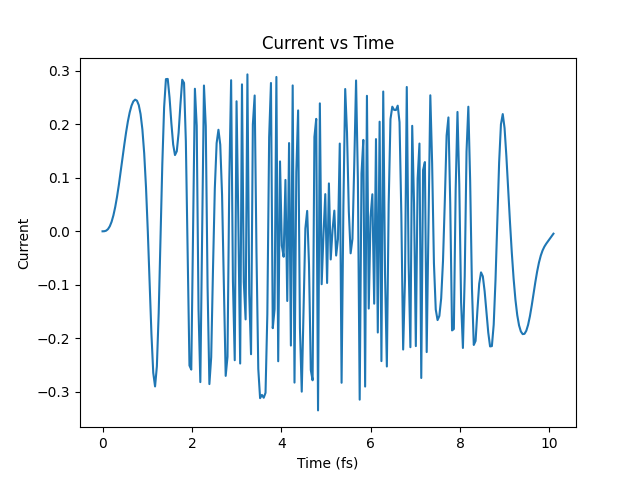
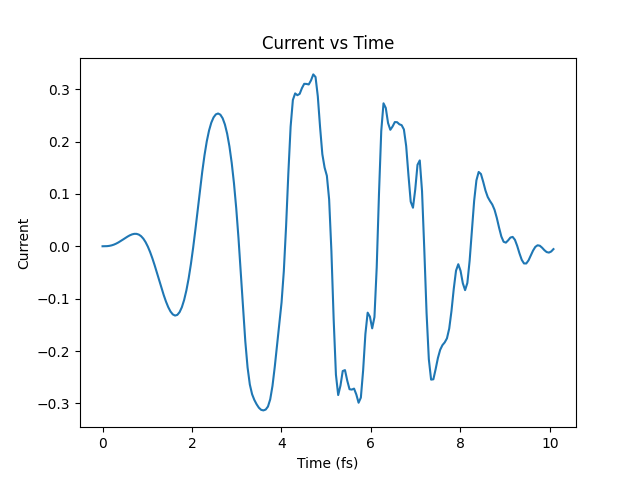
Updated

diff --git a/SSH_new.py b/SSH_new.py
@@ -5,13 +5,14 @@ import scipy as sp
 import numpy as np  
 import matplotlib.pyplot as plt
 import matplotlib.cm as cm
-
+from matplotlib.colors import LogNorm
+import numpy as np
 
 # Define model parameters
 L = 100           # system size
 J = 1.0           # uniform hopping contribution
 a = 2.0           # Lattice constant in a.u
-delta = 0.15     # Alternating shift of the atos casuing the dimerization (negative for topological phase)
+delta = -0.15     # Alternating shift of the atos casuing the dimerization (negative for topological phase)
 
 
 # Declare constants for Vector Potential
@@ -55,33 +56,6 @@ t = np.linspace(start, stop, num=num, endpoint=False)         # Time array
 A_t = A_0*((np.sin(omega_0*t/(2*NN)))**2)*np.sin(omega_0*t)   # Vector Potential
 
 
-# Plot Vector potential A(t)
-plt.plot(t*t_conversion,A_t)
-plt.title("Vector Potential vs Time(fs)")
-plt.xlabel("time (fs)")
-plt.ylabel("Vector Potential A(t)")
-#plt.show()
-
-
-# Define time dependent parts in the Hamiltonian
-def ramp_v(t,A_0,omega_0,NN,a, delta):
-    A_t = A_0*((np.sin(omega_0*t/(2*NN)))**2)*np.sin(omega_0*t) 
-    return np.exp((-1j*(a-delta)*A_t))
-
-def ramp_w(t,A_0,omega_0,NN,a, delta):
-    A_t = A_0*((np.sin(omega_0*t/(2*NN)))**2)*np.sin(omega_0*t) 
-    return np.exp((-1j*(a+delta)*A_t))
-
-def ramp_v_conj(t,A_0,omega_0,NN,a, delta):
-    A_t = A_0*((np.sin(omega_0*t/(2*NN)))**2)*np.sin(omega_0*t) 
-    return np.exp(1j*(a-delta)*A_t)
-
-def ramp_w_conj(t,A_0,omega_0,NN,a, delta):
-    A_t = A_0*((np.sin(omega_0*t/(2*NN)))**2)*np.sin(omega_0*t) 
-    return np.exp(1j*(a+delta)*A_t)
-
-ramp_args = [A_0,omega_0,NN,a, delta]
-
 
 ## Construct single -praticle Hamiltonian
 
@@ -97,12 +71,23 @@ dynamic = []
 H = hamiltonian(static, dynamic, basis=basis, dtype=np.float64)
 E,V = H.eigh() # the Smallest Algeberic Eigen value and conresponding eigen state. 
 
+prob_amplitude = np.transpose(V)**2
 
-print(V)
 print("Energy is", E)
 
+dense = np.zeros((L*L,3))
 
-'''
+for i in range(len(E)):
+    for j in range(len(positions)):
+        k = i*len(positions)+j
+        dense[k,0] = positions[j]
+        dense[k,1] = E[i]
+        dense[k,2] = prob_amplitude[i,j]
+print(dense)
+
+x, y, z = dense[:,0],dense[:,1],dense[:,1]
+
+
 # Plot probability amplitudes against positions of lattice
 x_positions = positions
 y_positions = E
@@ -115,127 +100,27 @@ for i in range(len(x_positions)):
     for j in range(len(y_positions)):
         density[i,j]= prob_amplitude[i,j]
 
-plt.figure(2)
+
+plt.figure()
+plt.plot(x_positions, prob_amplitude[48,:])
+plt.ylabel(r'$|\Psi_{48}|^{2}$')
+plt.title(r'$|\Psi_{48}|^{2}$')
+plt.savefig('Plots/Psi48.png')
+
+plt.figure()
+plt.plot(x_positions, prob_amplitude[49,:])
+plt.ylabel(r'$|\Psi_{49}|^{2}$')
+plt.title(r'$|\Psi_{49}|^{2}$')
+plt.savefig('Plots/Psi49.png')
+
+plt.figure()
 plt.plot(x_positions, prob_amplitude[50,:])
-plt.show()
-'''
-
-# define the Hamitonian in the presence of the external field
-stat = []
-dyna = [["+-", hop_pm_v,ramp_v,ramp_args], 
-        ["+-", hop_pm_w,ramp_w,ramp_args],
-        ["-+", hop_mp_v,ramp_v_conj,ramp_args],
-        ["-+", hop_mp_w,ramp_w_conj,ramp_args]]
-H_t = hamiltonian(stat,dyna,basis=basis, dtype=np.float64)
-
-Et, Vt = H_t.eigsh(time=0.0, k=1, which='SA')
-print(Vt)
-print(np.sqrt(0.28363019**2+0.13983531**2))
-
-E_0 , psi_0 = H_t.eigsh(time=0.0, k=1,which="SA")
-E,V =H_t.eigh(time=0)
-psi_0 = psi_0[:,0]
-
-# Evolve state in 
-psi_t = H_t.evolve(psi_0,0,t,eom='SE',iterate=True)
-
-# Define current operator
-def current_ramp(t,A_0,omega_0,NN,a):
-    A_t = (A_0*10/omega_0)*((np.sin(omega_0*t/(2*NN)))**2)*np.sin(omega_0*t)
-    return -1j*a*np.exp(-1j*A_t)
-
-def current_ramp_conj(t,A_0,omega_0,NN,a):
-    A_t = (A_0*10/omega_0)*((np.sin(omega_0*t/(2*NN)))**2)*np.sin(omega_0*t)
-    return 1j*a*np.exp(1j*A_t)
-
-current_ramp_args = [A_0,omega_0,NN,a]
-
-current_static = []
-current_dynamic = [["+-", hop_pm_v,current_ramp,current_ramp_args],
-                   ["+-", hop_pm_w,current_ramp,current_ramp_args], 
-                   ["-+", hop_mp_v,current_ramp_conj,current_ramp_args],
-                   ["-+", hop_mp_w,current_ramp_conj,current_ramp_args]]
-current = hamiltonian(current_static,current_dynamic, basis=basis,dtype=np.float64)
-
-# Define current operator
-X_i = [[positions[i],i] for i in range(L)]
-
-displacement_static=[["n",X_i]]
-displacement_dynamic=[]
-displacement = hamiltonian(displacement_static,displacement_dynamic,basis=basis, dtype=np.float64)
-
-print("displacement list",displacement_static)
-
-# calculate expectation values of current operator
-Obs_time = obs_vs_time(psi_t,t,dict(Energy=H_t, Current=current, Displacement=displacement))
-current_time = Obs_time["Current"]
-displacement_time = Obs_time["Displacement"]
-#print(np.size(current_time))
+plt.ylabel(r'$|\Psi_{50}|^{2}$')
+plt.title(r'$|\Psi_{50}|^{2}$')
+plt.savefig('Plots/Psi50.png')
 
 plt.figure()
-plt.plot(t*t_conversion,current_time)
-plt.xlabel('Time (fs)')
-plt.ylabel('Current')
-plt.title("Current vs Time")
-plt.show()
-
-plt.figure()
-plt.plot(t*t_conversion,displacement_time)
-plt.xlabel('Time (fs)')
-plt.ylabel('Displacement')
-plt.title("Displacement vs Time")
-plt.show()
-
-#velocity_time = np.gradient(displacement_time,t)
-#acceleration_time = np.gradie
-
-# Fourier Transformation to obtain current in frequency domain
-T = t[-1]-t[0]        # total time 
-N = num               # Number of steps
-delta_t = t[1]-t[0]   # Time step
-
-
-omega = np.linspace(-1*np.pi/delta_t, np.pi/delta_t, num, endpoint= False)
-delta_omega=omega[1]-omega[0]
-
-factor = np.zeros(num)
-for k in range(num):
-    factor[k] = np.exp(1j*omega[0]*k*delta_t)
-
-current_time = factor*current_time
-J_omega = (delta_t/(np.sqrt(2*np.pi)))*N*sp.fft.fft(current_time)
-omega_J_omega = omega * J_omega
-S_omega = abs(omega_J_omega)**2
-'''
-'''
-for k in range(num):
-    A_t[k] = np.exp(1j*omega[0]*k*delta_t)*A_t[k]
-'''
-'''
-
-A_t_omega = (delta_t/(np.sqrt(2*np.pi)))*N*sp.fft.fft(factor*A_t)
-plt.plot(omega,np.abs(A_t_omega)**2)
-plt.yscale('log')
-plt.title("FFT of AT")
-plt.xlim(left=0)
-plt.show()
-
-print("length",np.size(A_t))
-X_t_omega = (delta_t/(np.sqrt(2*np.pi)))*N*sp.fft.fft(factor*displacement_time)
-plt.plot(omega,np.abs(X_t_omega)**2)
-plt.yscale('log')
-plt.title("FFT of Xt")
-plt.xlim(left=0)
-plt.show()
-
-print("length of X",np.size(displacement_time))
-# Plot J(t) and omega * J(omega) (magnitude)
-plt.figure()
-plt.plot(omega,S_omega)
-plt.yscale('log')
-plt.ylabel("S(Omega)")
-plt.xlim(left=0)
-plt.show()
-
-
-
+plt.plot(x_positions, prob_amplitude[51,:])
+plt.ylabel(r'$|\Psi_{51}|^{2}$')
+plt.title(r'$|\Psi_{51}|^{2}$')
+plt.savefig('Plots/Psi51.png')

diff --git a/SSH_ALL_Band.py b/SSH_ALL_Band.py
@@ -15,10 +15,10 @@ delta = 0.15     # Alternating shift of the atos casuing the dimerization (negat
 
 
 # Declare constants for Vector Potential
-NN = 5                               # Period of the pulse
-omega_0 = 0.075                     # Frequency in THz
+N_cyc = 5                            # Period of the pulse
+omega_0 = 0.075                      # Frequency in a.u
 A_0 = 0.2                            # Amplitude 
-tf = 2*np.pi*NN/omega_0              # Final time
+tf = 2*np.pi*N_cyc/omega_0           # Final time
 t_conversion = 2.4188843265864e-2    # Conversion of time from a.u to fs
 
 
@@ -41,22 +41,21 @@ hop_mp_w = []
 
 for i in range(L-1):
     if i%2 == 0:
-        hop_pm_v = hop_pm_v + [[-v, i, i+1]] #(i + 1) % L]
+        hop_pm_v = hop_pm_v + [[-v, i, i+1]]
         hop_mp_v = hop_mp_v + [[v, i, i+1]]
     else:
         hop_pm_w = hop_pm_w + [[-w, i, i+1]]
         hop_mp_w = hop_mp_w + [[w, i, i+1]]
 
 
-
 # Define the time array and the Vector potential 
-start,stop,num = 0, tf, 250                                   # time in fs
+start,stop,num = 0, tf, 200                                   # time in fs
 t = np.linspace(start, stop, num=num, endpoint=False)         # Time array
-A_t = A_0*((np.sin(omega_0*t/(2*NN)))**2)*np.sin(omega_0*t)   # Vector Potential
+A_t = A_0*((np.sin(omega_0*t/(2*N_cyc)))**2)*np.sin(omega_0*t)   # Vector Potential
 
 
 # Plot Vector potential A(t)
-plt.figure(1)
+plt.figure()
 plt.plot(t*t_conversion,A_t)
 plt.title("Vector Potential vs Time(fs)")
 plt.xlabel("time (fs)")
@@ -64,29 +63,27 @@ plt.ylabel("Vector Potential A(t)")
 plt.savefig('Plots/Vector Potential.png')
 
 
-
 # Define time dependent parts in the Hamiltonian
-def ramp_v(t,A_0,omega_0,NN,a, delta):
-    A_t = A_0*((np.sin(omega_0*t/(2*NN)))**2)*np.sin(omega_0*t) 
+def ramp_v(t,A_0,omega_0,N_cyc,a, delta):
+    A_t = A_0*((np.sin(omega_0*t/(2*N_cyc)))**2)*np.sin(omega_0*t) 
     return np.exp((-1j*(a-delta)*A_t))
 
-def ramp_w(t,A_0,omega_0,NN,a, delta):
-    A_t = A_0*((np.sin(omega_0*t/(2*NN)))**2)*np.sin(omega_0*t) 
+def ramp_w(t,A_0,omega_0,N_cyc,a, delta):
+    A_t = A_0*((np.sin(omega_0*t/(2*N_cyc)))**2)*np.sin(omega_0*t) 
     return np.exp((-1j*(a+delta)*A_t))
 
-def ramp_v_conj(t,A_0,omega_0,NN,a, delta):
-    A_t = A_0*((np.sin(omega_0*t/(2*NN)))**2)*np.sin(omega_0*t) 
+def ramp_v_conj(t,A_0,omega_0,N_cyc,a, delta):
+    A_t = A_0*((np.sin(omega_0*t/(2*N_cyc)))**2)*np.sin(omega_0*t) 
     return np.exp(1j*(a-delta)*A_t)
 
-def ramp_w_conj(t,A_0,omega_0,NN,a, delta):
-    A_t = A_0*((np.sin(omega_0*t/(2*NN)))**2)*np.sin(omega_0*t) 
+def ramp_w_conj(t,A_0,omega_0,N_cyc,a, delta):
+    A_t = A_0*((np.sin(omega_0*t/(2*N_cyc)))**2)*np.sin(omega_0*t) 
     return np.exp(1j*(a+delta)*A_t)
 
-ramp_args = [A_0,omega_0,NN,a, delta]
+ramp_args = [A_0,omega_0,N_cyc,a, delta]
 
 
 ## Construct single -praticle Hamiltonian
-
 # define basis
 basis = spinless_fermion_basis_1d(L, Nf=1)
 
@@ -109,15 +106,15 @@ dyna = [["+-", hop_pm_v,ramp_v,ramp_args],
 H_t = hamiltonian(stat,dyna,basis=basis, dtype=np.float64)
 
 # Define current operator
-def current_ramp(t,A_0,omega_0,NN,a):
-    A_t = (A_0*10/omega_0)*((np.sin(omega_0*t/(2*NN)))**2)*np.sin(omega_0*t)
+def current_ramp(t,A_0,omega_0,N_cyc,a):
+    A_t = (A_0/omega_0)*((np.sin(omega_0*t/(2*N_cyc)))**2)*np.sin(omega_0*t)
     return -1j*a*np.exp(-1j*A_t)
 
-def current_ramp_conj(t,A_0,omega_0,NN,a):
-    A_t = (A_0*10/omega_0)*((np.sin(omega_0*t/(2*NN)))**2)*np.sin(omega_0*t)
+def current_ramp_conj(t,A_0,omega_0,N_cyc,a):
+    A_t = (A_0/omega_0)*((np.sin(omega_0*t/(2*N_cyc)))**2)*np.sin(omega_0*t)
     return 1j*a*np.exp(1j*A_t)
 
-current_ramp_args = [A_0,omega_0,NN,a]
+current_ramp_args = [A_0,omega_0,N_cyc,a]
 
 current_static = []
 current_dynamic = [["+-", hop_pm_v,current_ramp,current_ramp_args],
@@ -195,16 +192,16 @@ for k in range(num):
     factor[k] = np.exp(1j*omega[0]*k*delta_t)
 
 current_total = factor*current_total
-J_omega = (delta_t/(np.sqrt(2*np.pi)))*N*sp.fft.fft(current_total)
+J_omega = (delta_t/(np.sqrt(2*np.pi)))*N*sp.fft.ifft(current_total)
 omega_J_omega = omega * J_omega
 S_omega = abs(omega_J_omega)**2
 
 
 displacement_total = factor*displacement_total
-X_omega = (delta_t/(np.sqrt(2*np.pi)))*N*sp.fft.fft(displacement_total)
+X_omega = (delta_t/(np.sqrt(2*np.pi)))*N*sp.fft.ifft(displacement_total)
 P_omega = abs(omega**2*X_omega)**2
 
-A_t_omega = (delta_t/(np.sqrt(2*np.pi)))*N*sp.fft.fft(factor*A_t)
+A_t_omega = (delta_t/(np.sqrt(2*np.pi)))*N*sp.fft.ifft(factor*A_t)
 
 plt.figure()
 plt.plot(omega,np.abs(A_t_omega)**2)
@@ -238,5 +235,4 @@ plt.ylabel("P(Omega)")
 plt.xlim(left=0)
 plt.savefig('Plots/P(Omega).png')
 
-
-
+# Use density matrix to get harmonic spectrum
